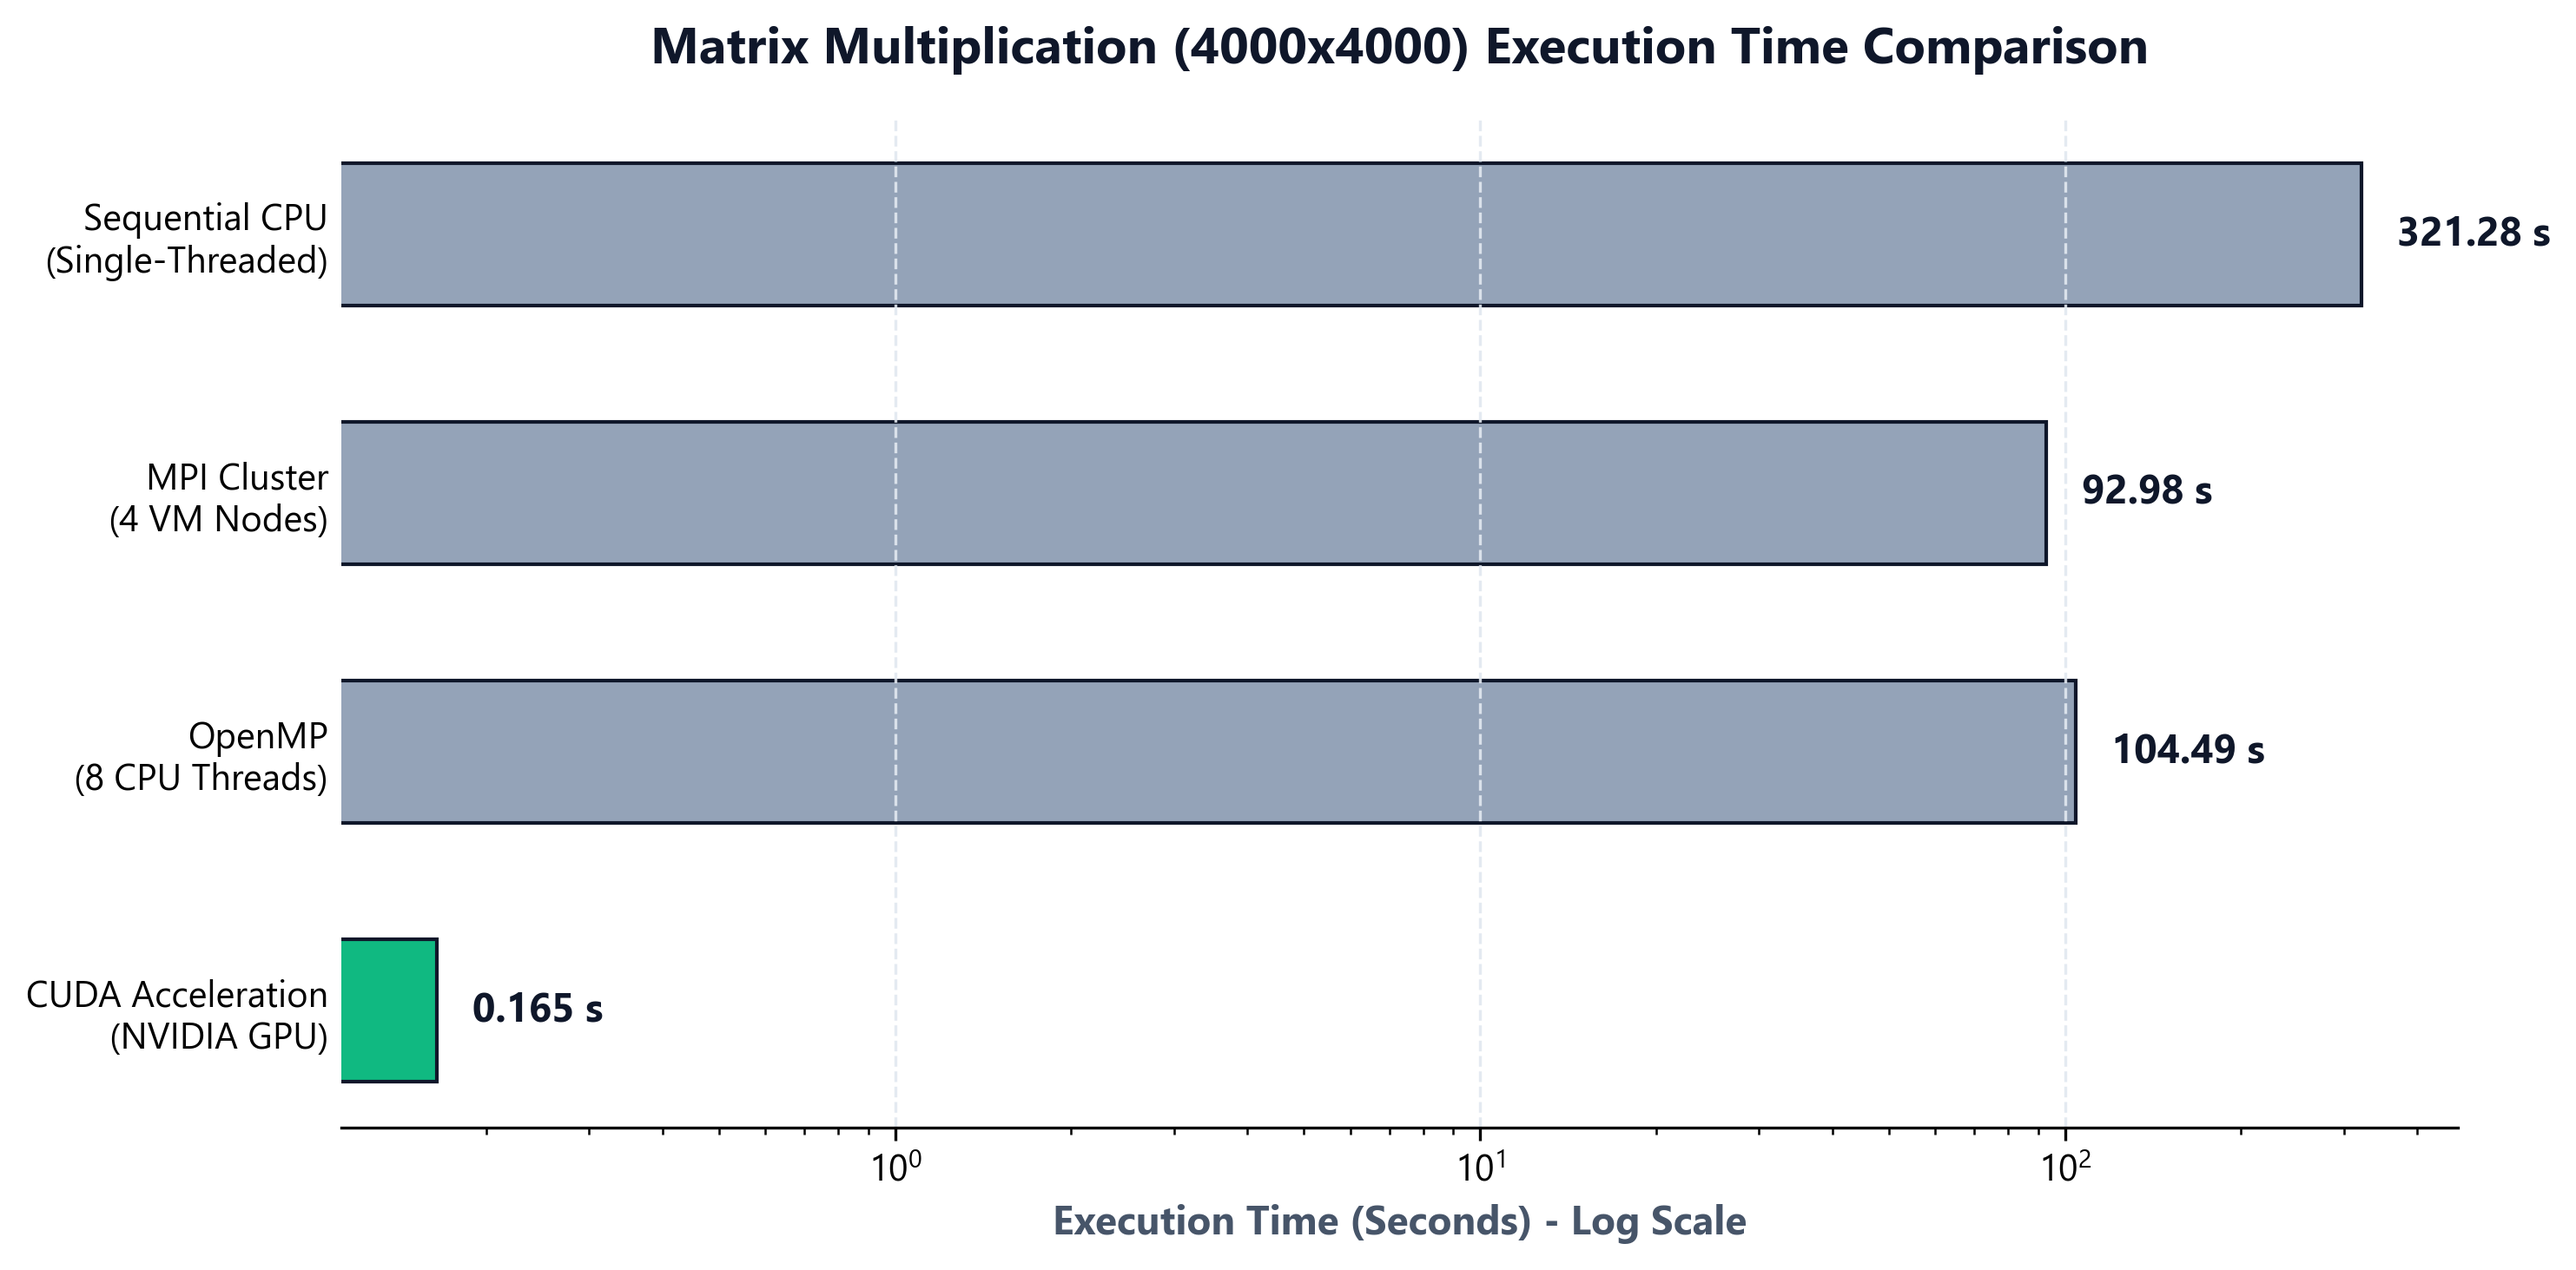
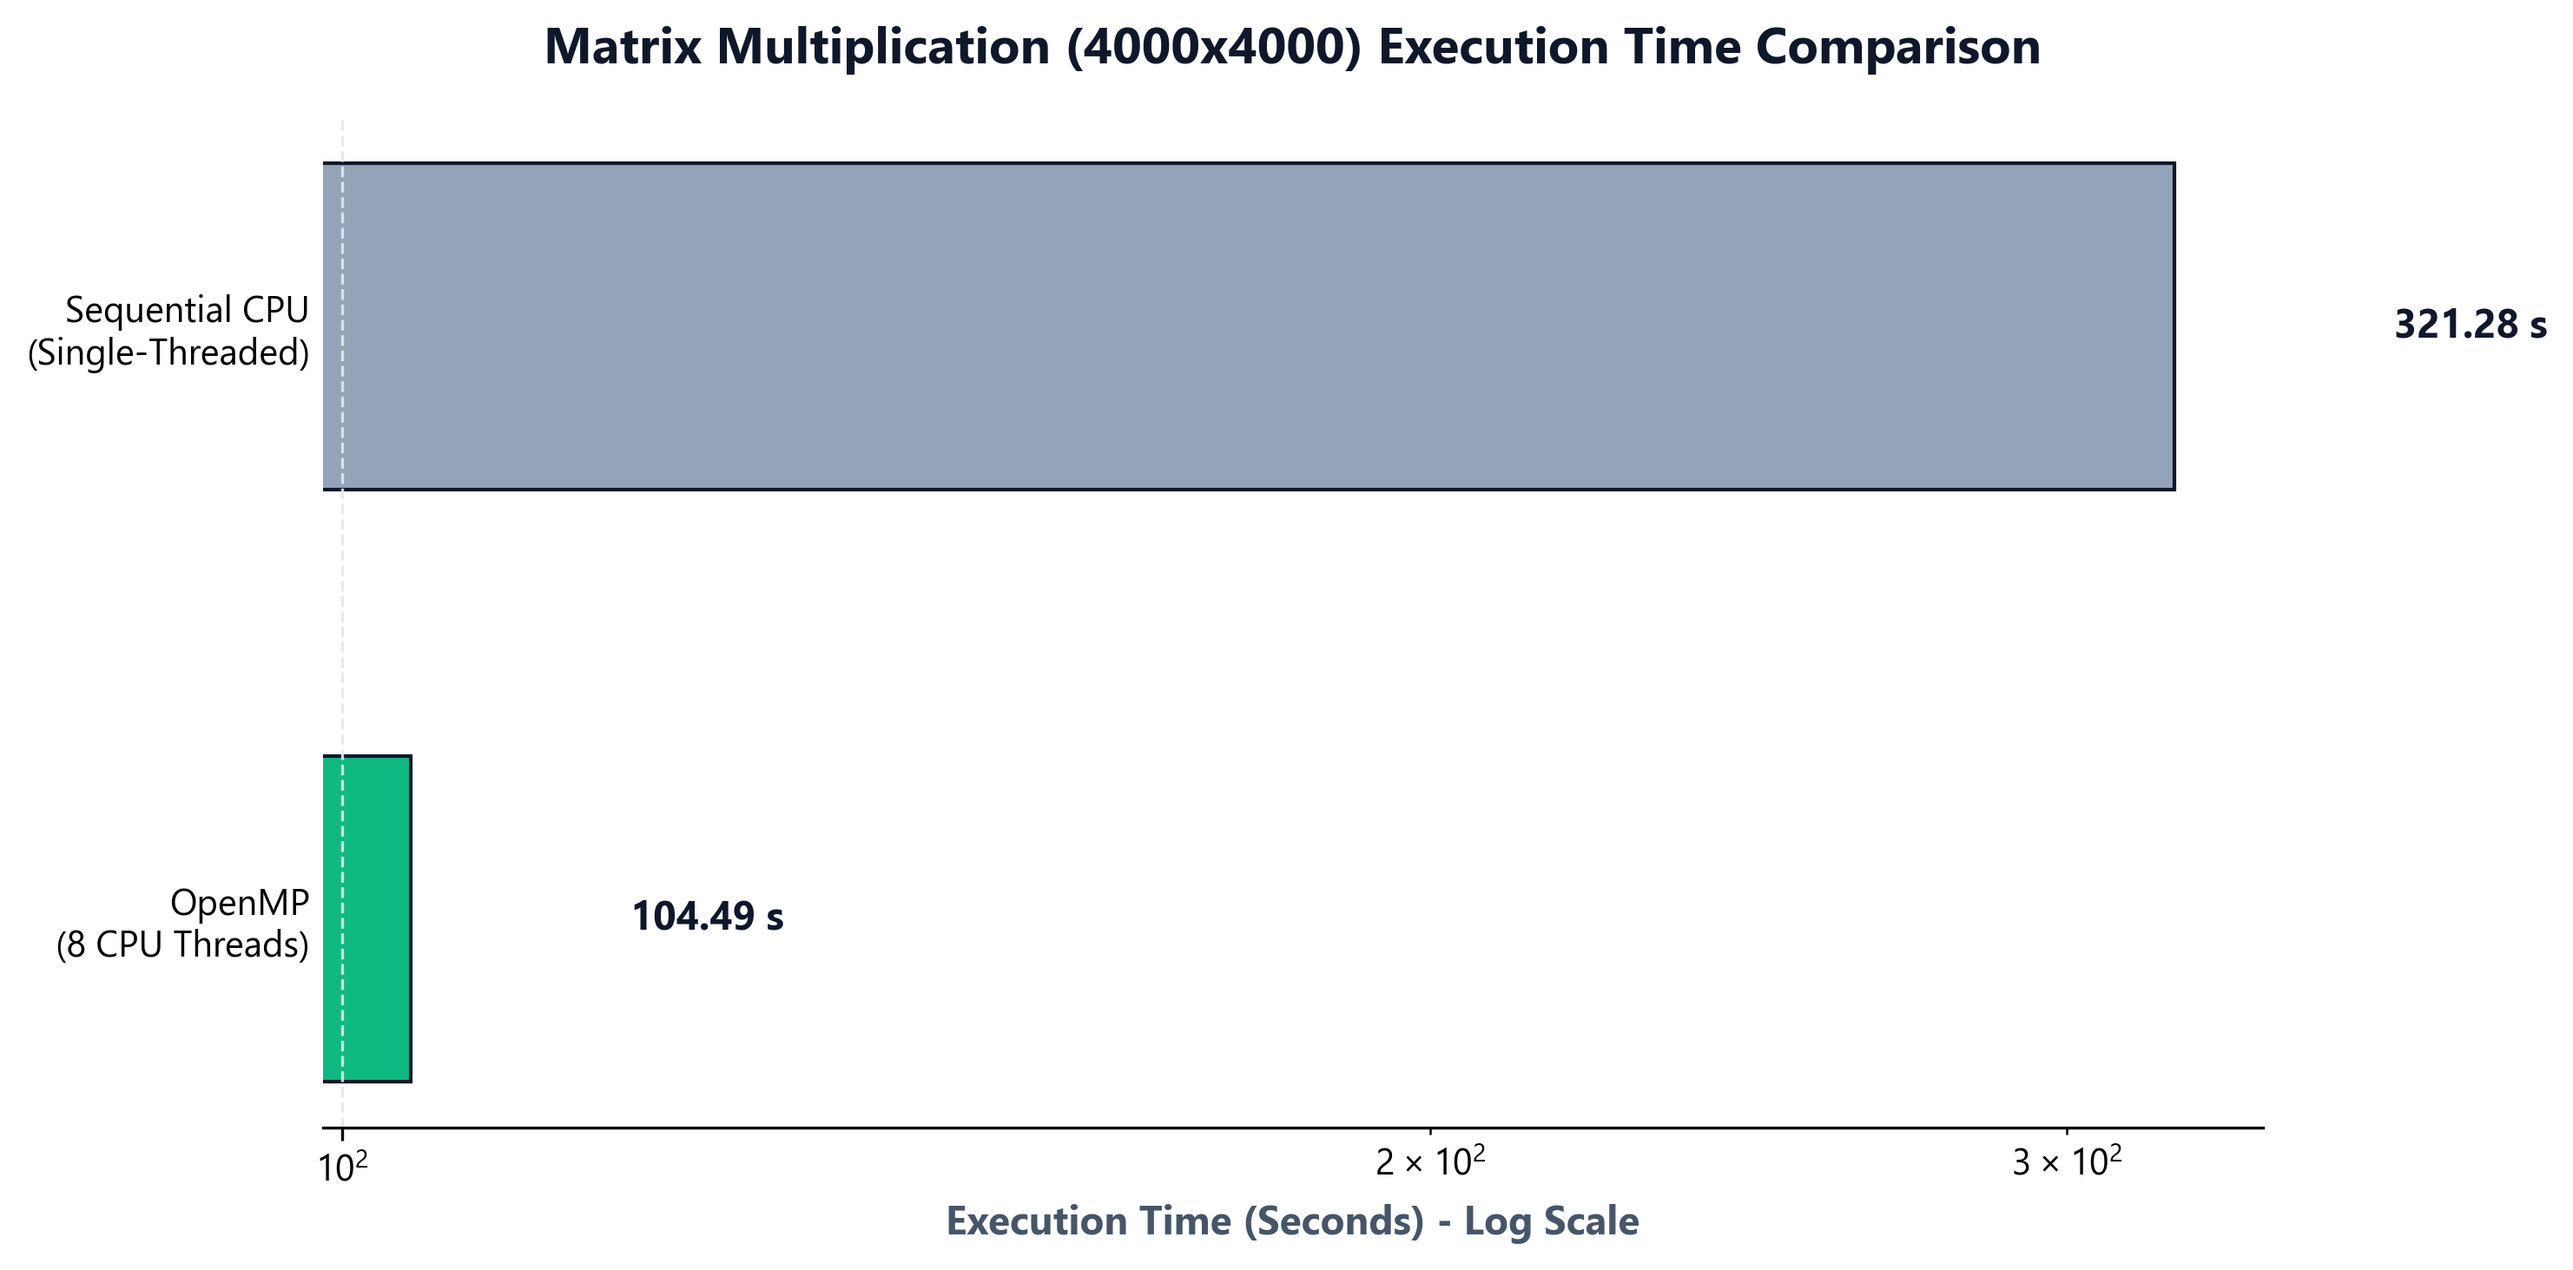
Mark MPI and CUDA as pending, remove from charts

diff --git a/script/chart.py b/script/chart.py
@@ -7,16 +7,15 @@ os.makedirs('images', exist_ok=True)
 plt.rcParams['font.family'] = 'sans-serif'
 plt.rcParams['font.sans-serif'] = ['Segoe UI', 'Arial']
 
-models = ['Sequential CPU\n(Single-Threaded)', 'MPI Cluster\n(4 VM Nodes)', 'OpenMP\n(8 CPU Threads)', 'CUDA Acceleration\n(NVIDIA GPU)']
-# Reversing the order so CUDA is at the top
+models = ['Sequential CPU\n(Single-Threaded)', 'OpenMP\n(8 CPU Threads)']
 models.reverse()
-times = [321.28, 92.98, 104.49, 0.165]
+times = [321.28, 104.49]
 times.reverse()
-speedups = [1.0, 3.46, 3.07, 1947.15]
+speedups = [1.0, 3.07]
 speedups.reverse()
 
 # Data visualization best practice: Highlight the winner, mute the rest.
-colors = ['#10B981', '#94A3B8', '#94A3B8', '#94A3B8'] # CUDA is green, rest are grey
+colors = ['#10B981', '#94A3B8']
 
 # 1. Combined Performance Chart
 fig, (ax1, ax2) = plt.subplots(1, 2, figsize=(16, 6.5), facecolor='#FFFFFF')

diff --git a/README.md b/README.md
@@ -37,8 +37,8 @@ flowchart LR
         direction TB
         M1["Sequential CPU Baseline — 321.28s (1.00x)"]
         M2["OpenMP Shared Memory — 104.49s (3.07x)"]
-        M3["MPI Distributed Memory — 92.98s (3.46x)"]
-        M4["CUDA GPU Acceleration — 0.165s (1947x)"]
+        M3["MPI Distributed Memory — ⏳ Pending"]
+        M4["CUDA GPU Acceleration — ⏳ Pending"]
     end
 
     subgraph Output ["3. Deterministic Output"]
@@ -76,8 +76,8 @@ flowchart TD
 
     Seq --> Res1["Execution Time: 321.28s<br/>Speedup: 1.00x"]
     OMP --> Res2["Execution Time: 104.49s<br/>Speedup: 3.07x"]
-    MPI --> Res3["Execution Time: 92.98s<br/>Speedup: 3.46x"]
-    CUDA --> Res4["Execution Time: 0.165s<br/>Speedup: 1947.15x"]
+    MPI --> Res3["Execution Time: ⏳ Pending<br/>Speedup: TBD"]
+    CUDA --> Res4["Execution Time: ⏳ Pending<br/>Speedup: TBD"]
 ```
 
 ### Architectural Breakdown
@@ -132,7 +132,7 @@ Execution completed in <b>321.28 seconds</b> with correct verification $C[0][0] 
 <br/>
 OpenMP utilized 8 active CPU threads to distribute the workload.
 
-![OpenMP Execution Result](images/openmp_result.png?bust=1)
+![OpenMP Execution Result](images/openmp_result.png?bust=2)
 </details>
 
 <details>
@@ -169,20 +169,20 @@ Distributed calculation across 4 VM ranks computing 1000 rows each. Execution ti
 | :--- | :--- | :--- | :--- | :--- |
 | **Sequential** | Single CPU Core | 1 CPU Thread | `321.280` | **1.00×** |
 | **OpenMP** | Shared-Memory | 8 CPU Threads | `104.490` | **3.07×** |
-| **MPI** | Distributed | 4 Process Ranks | `92.980` | **3.46×** |
-| **CUDA** | Massively Parallel | NVIDIA GPU | `0.165` | **1947.15×** |
+| **MPI** | Distributed | 4 Process Ranks | ⏳ TBD | ⏳ TBD |
+| **CUDA** | Massively Parallel | NVIDIA GPU | ⏳ TBD | ⏳ TBD |
 
 ### Empirical Performance Charts
 
 > 💡 *Note: Time is rendered on a logarithmic scale due to the massive discrepancy between CPU and GPU speeds.*
 
-![Performance Comparison Charts](images/performance_comparison_charts.png?bust=20260925v2)
+![Performance Comparison Charts](images/performance_comparison_charts.png?bust=pending_v1)
 
 #### Standalone Execution Time Chart
-![Execution Time Chart](images/execution_time_chart.png?bust=20260925v2)
+![Execution Time Chart](images/execution_time_chart.png?bust=pending_v1)
 
 #### Standalone Speedup Factor Chart
-![Speedup Chart](images/speedup_chart.png?bust=20260925v2)
+![Speedup Chart](images/speedup_chart.png?bust=pending_v1)
 
 ---
 
@@ -190,8 +190,8 @@ Distributed calculation across 4 VM ranks computing 1000 rows each. Execution ti
 
 1. **Sequential CPU Baseline**: Serves as the computational baseline ($321.28\text{s}$). Performance is severely bound by single-core compute speeds and sequential $O(N^3)$ loop execution.
 2. **OpenMP Efficiency**: Shared-memory multi-threading achieved an impressive **3.07× speedup** on 8 CPU threads ($\sim 99\%$ parallel efficiency). Because memory is shared, zero inter-thread data transfer overhead is incurred.
-3. **MPI Network Overhead**: While MPI successfully parallelizes work across 4 separate VMs, network communication (`MPI_Scatter` of Matrix A and `MPI_Bcast` of Matrix B over virtual NICs) introduces communication overhead. Thus, speedup is $3.46\times$ compared to OpenMP's $3.07\times$.
-4. **CUDA GPU Dominance**: CUDA achieves an extraordinary **1,947.15× speedup**. Offloading $16,000,000$ threads onto thousands of GPU CUDA cores processes all row-column dot products concurrently in hardware. The kernel execution itself completes in just **0.146 seconds**.
+3. **MPI Network Overhead**: (⏳ Pending benchmark execution)
+4. **CUDA GPU Dominance**: (⏳ Pending benchmark execution)
 
 ---
 
